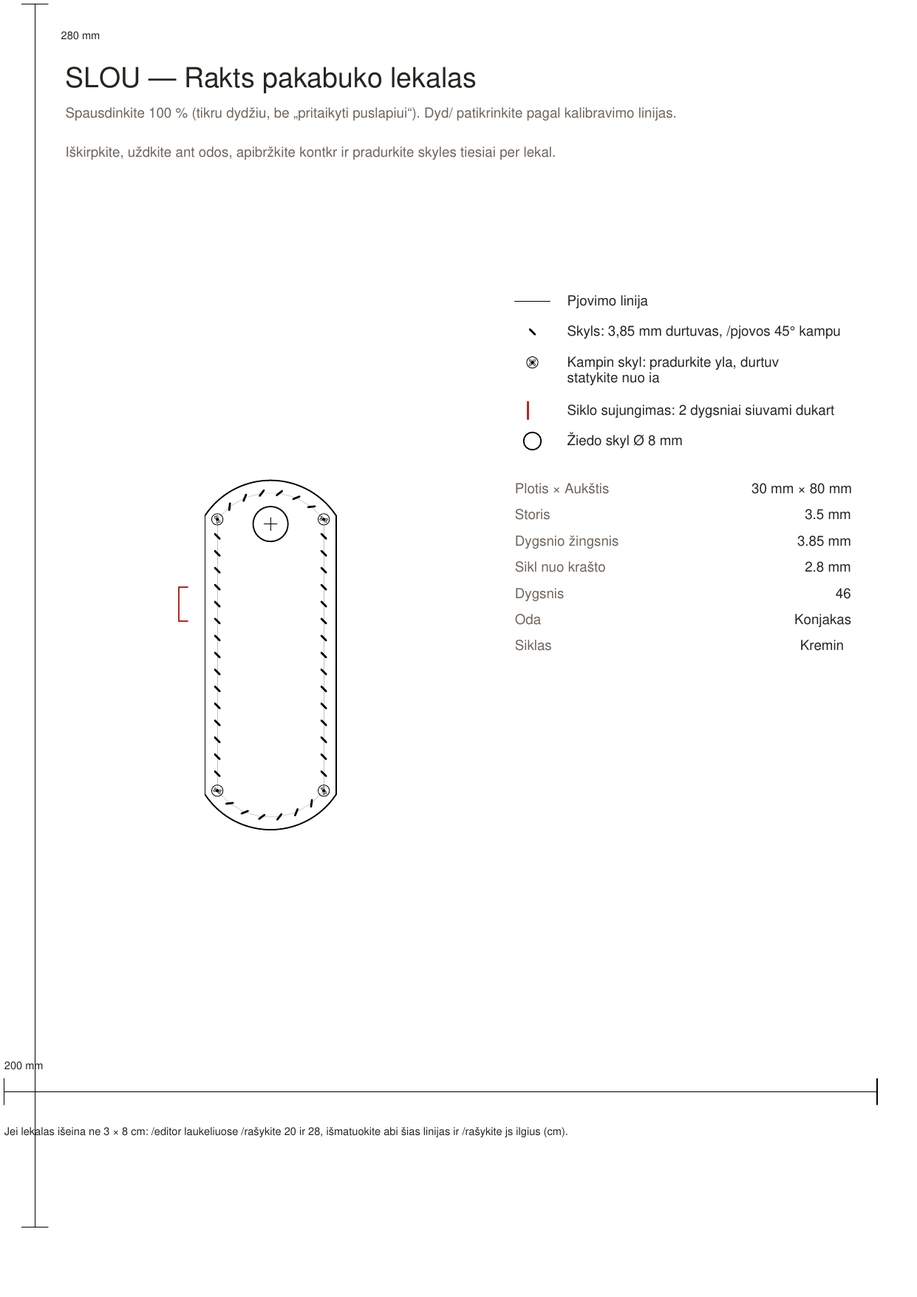
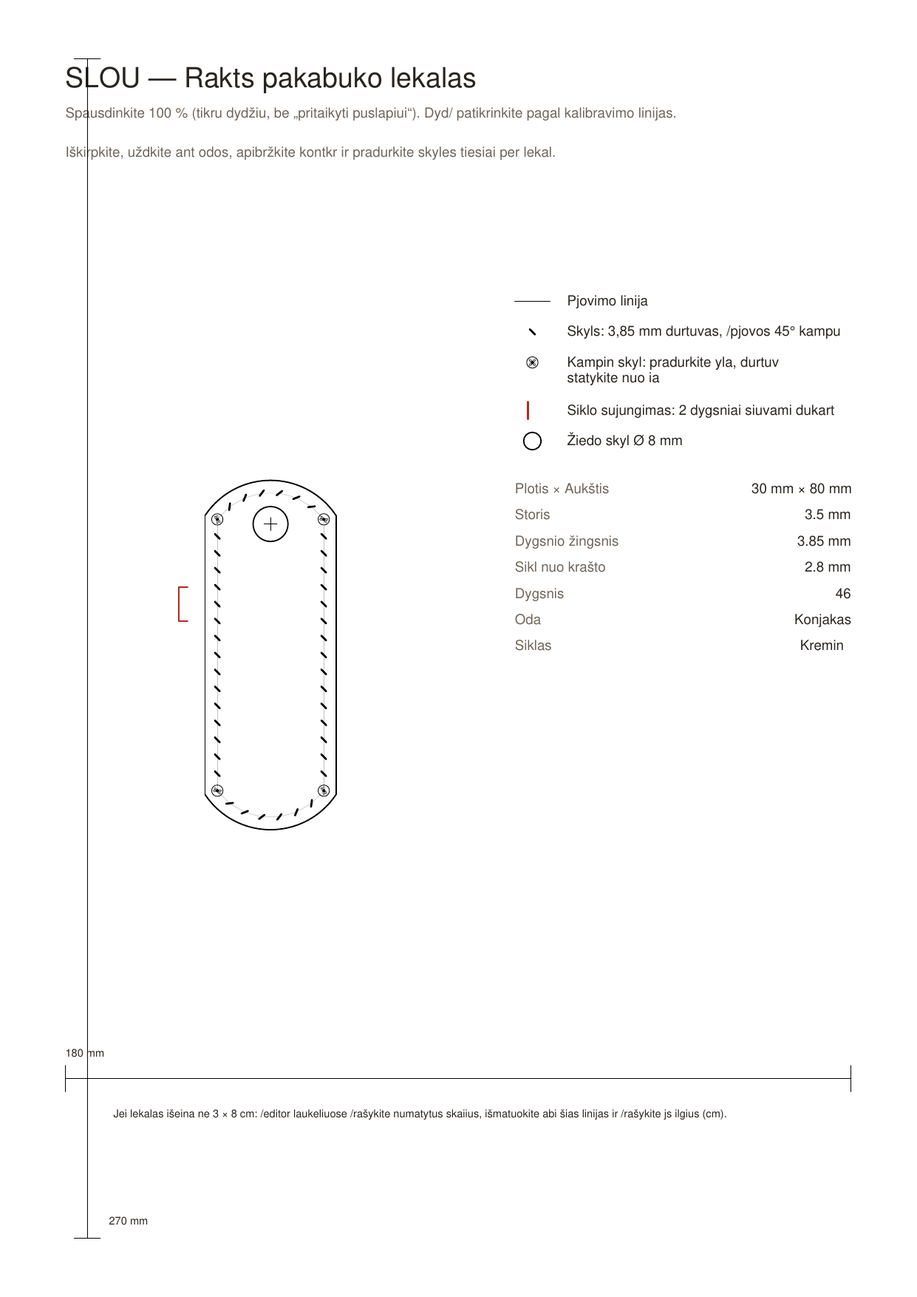
save

Changed region(s): [[0.1225, 0.8312, 0.7961, 0.8928], [0.0306, 0.862, 0.0919, 0.8928]]

diff --git a/config/content.js b/config/content.js
@@ -18,7 +18,7 @@ module.exports.content = {
     topbar: 'Rankų darbo · Augalinio rauginimo oda · Gaminama Lietuvoje',
     nav: { home: 'Pradžia', shop: 'Parduotuvė', contacts: 'Kontaktai' },
     titles: { home: 'SLOU — rankinės, raktų aksesuarai, piniginės', shop: 'Parduotuvė — SLOU', contacts: 'Kontaktai — SLOU', returns: 'Pristatymo ir grąžinimo sąlygos — SLOU', privacy: 'Privatumo politika — SLOU', cookies: 'Slapukų politika — SLOU' },
-    editor: { pageTitle: 'Raktų pakabuko kūrimas — SLOU', eyebrow: 'Kūrimo įrankis', title: 'Susikurkite raktų pakabuką', lead: 'Pasirinkite formą, odos ir siūlų spalvą, įrašykite raides — ir apžiūrėkite iš visų pusių.', hint: 'Tempkite, kad pasuktumėte, slinkite, kad priartintumėte', shape: 'Forma', shapes: { rect: 'Stačiakampis', arch: 'Arka', point: 'Smaigalys' }, leather: 'Odos spalva', thread: 'Siūlų spalva', ring: 'Žiedas', rings: { silver: 'Sidabrinis', brass: 'Žalvarinis', black: 'Juodas', gold: 'Auksinis' }, initials: 'Raidės', initialsPh: 'pvz. EM', colors: { tan: 'Natūrali', cognac: 'Konjakas', brown: 'Ruda', black: 'Juoda', burgundy: 'Bordo', olive: 'Alyvuogių', cream: 'Kreminė', white: 'Balta', red: 'Raudona' }, download: 'Atsisiųsti vaizdą', order: 'Užsisakyti tokį', measure: { toggle: 'Tinklelis ir matmenys', width: 'Plotis', height: 'Aukštis', thickness: 'Storis', hole: 'Skylė', spacing: 'Dygsnio žingsnis', inset: 'Siūlė nuo krašto' }, exitFull: 'Išeiti iš viso ekrano', lockTop: 'Fiksuoti vaizdą iš viršaus', hintPan: 'Tempkite, kad paslinktumėte, slinkite, kad priartintumėte', pattern: { btn: 'Atsisiųsti lekalą', loading: 'Ruošiama…', title: 'Raktų pakabuko lekalas', print: 'Spausdinkite 100 % (tikru dydžiu, be „pritaikyti puslapiui“). Dydį patikrinkite pagal kalibravimo linijas.', how: 'Iškirpkite, uždėkite ant odos, apibrėžkite kontūrą ir pradurkite skyles tiesiai per lekalą.', cut: 'Pjovimo linija', holes: 'Skylės: 3,85 mm durtuvas, įpjovos 45° kampu', corner: 'Kampinė skylė: pradurkite yla, durtuvą statykite nuo čia', joint: 'Siūlo sujungimas: 2 dygsniai siuvami dukart', ring: 'Žiedo skylė', initials: 'Raidės', stitches: 'Dygsnių', leather: 'Oda', thread: 'Siūlas', check: '10 mm', calibNote: 'Jei lekalas išeina ne 3 × 8 cm: /editor laukeliuose įrašykite 20 ir 28, išmatuokite abi šias linijas ir įrašykite jų ilgius (cm).' }, calib: { label: 'Kalibravimas', x: 'Horizontali linija (200 mm), cm', y: 'Vertikali linija (280 mm), cm', hint: 'Pirmam spausdinimui palikite 20 ir 28. Atspausdinkite, išmatuokite abi linijas ir įrašykite, kiek jos išeina (cm) — tada visi matmenys spausdinami tikru dydžiu.' } },
+    editor: { pageTitle: 'Raktų pakabuko kūrimas — SLOU', eyebrow: 'Kūrimo įrankis', title: 'Susikurkite raktų pakabuką', lead: 'Pasirinkite formą, odos ir siūlų spalvą, įrašykite raides — ir apžiūrėkite iš visų pusių.', hint: 'Tempkite, kad pasuktumėte, slinkite, kad priartintumėte', shape: 'Forma', shapes: { rect: 'Stačiakampis', arch: 'Arka', point: 'Smaigalys' }, leather: 'Odos spalva', thread: 'Siūlų spalva', ring: 'Žiedas', rings: { silver: 'Sidabrinis', brass: 'Žalvarinis', black: 'Juodas', gold: 'Auksinis' }, initials: 'Raidės', initialsPh: 'pvz. EM', colors: { tan: 'Natūrali', cognac: 'Konjakas', brown: 'Ruda', black: 'Juoda', burgundy: 'Bordo', olive: 'Alyvuogių', cream: 'Kreminė', white: 'Balta', red: 'Raudona' }, download: 'Atsisiųsti vaizdą', order: 'Užsisakyti tokį', measure: { toggle: 'Tinklelis ir matmenys', width: 'Plotis', height: 'Aukštis', thickness: 'Storis', hole: 'Skylė', spacing: 'Dygsnio žingsnis', inset: 'Siūlė nuo krašto' }, exitFull: 'Išeiti iš viso ekrano', lockTop: 'Fiksuoti vaizdą iš viršaus', hintPan: 'Tempkite, kad paslinktumėte, slinkite, kad priartintumėte', pattern: { btn: 'Atsisiųsti lekalą', loading: 'Ruošiama…', title: 'Raktų pakabuko lekalas', print: 'Spausdinkite 100 % (tikru dydžiu, be „pritaikyti puslapiui“). Dydį patikrinkite pagal kalibravimo linijas.', how: 'Iškirpkite, uždėkite ant odos, apibrėžkite kontūrą ir pradurkite skyles tiesiai per lekalą.', cut: 'Pjovimo linija', holes: 'Skylės: 3,85 mm durtuvas, įpjovos 45° kampu', corner: 'Kampinė skylė: pradurkite yla, durtuvą statykite nuo čia', joint: 'Siūlo sujungimas: 2 dygsniai siuvami dukart', ring: 'Žiedo skylė', initials: 'Raidės', stitches: 'Dygsnių', leather: 'Oda', thread: 'Siūlas', check: '10 mm', calibNote: 'Jei lekalas išeina ne 3 × 8 cm: /editor laukeliuose įrašykite numatytus skaičius, išmatuokite abi šias linijas ir įrašykite jų ilgius (cm).' }, calib: { label: 'Kalibravimas', x: 'Horizontali linija, cm', y: 'Vertikali linija, cm', hint: 'Pirmam spausdinimui palikite numatytus skaičius. Atspausdinkite, išmatuokite abi liniuotes ir įrašykite, kiek jos išeina (cm) — tada visi matmenys spausdinami tikru dydžiu.' } },
     hero: { eyebrow: 'Rankų darbo oda', title: 'Daiktai, gimstantys iš lėto', tag: 'rankinės · raktų aksesuarai · piniginės', lead: 'Kiekvienas SLOU gaminys – tai rankomis sukurtas daiktas iš natūralios, augaliniu būdu raugintos odos. Ne skubant, o įdėmiai.', cta: 'Apžiūrėti parduotuvę' },
     features: [ { t: 'Rankų darbo', d: 'Kiekviena detalė siūta ir formuota rankomis.' }, { t: 'Augalinio rauginimo oda', d: 'Natūrali, sensta gražiai, įgauna patiną.' }, { t: 'Be pamušalo', d: 'Minimalistinė, tvari konstrukcija.' }, { t: 'Gaminama po užsakymo', d: 'Iki 7–14 darbo dienų, Lietuvoje.' } ],
     shop: { eyebrow: 'Kolekcija', title: 'Parduotuvė', sub: 'Rankomis siūti gaminiai kasdienai.', subLong: 'Rankomis siūti gaminiai iš augalinio rauginimo odos, gaminami po užsakymo.', all: 'Visos prekės' },
@@ -40,7 +40,7 @@ module.exports.content = {
     topbar: 'Handmade · Vegetable-tanned leather · Made in Lithuania',
     nav: { home: 'Home', shop: 'Shop', contacts: 'Contact' },
     titles: { home: 'SLOU — bags, key accessories, wallets', shop: 'Shop — SLOU', contacts: 'Contact — SLOU', returns: 'Shipping & Returns — SLOU', privacy: 'Privacy Policy — SLOU', cookies: 'Cookie Policy — SLOU' },
-    editor: { pageTitle: 'Keyfob designer — SLOU', eyebrow: 'Designer', title: 'Design your keyfob', lead: 'Pick a shape, the leather and thread colour, add your initials — and look at it from every side.', hint: 'Drag to rotate, scroll to zoom', shape: 'Shape', shapes: { rect: 'Rectangle', arch: 'Arch', point: 'Point' }, leather: 'Leather colour', thread: 'Thread colour', ring: 'Ring', rings: { silver: 'Silver', brass: 'Brass', black: 'Black', gold: 'Gold' }, initials: 'Initials', initialsPh: 'e.g. EM', colors: { tan: 'Natural', cognac: 'Cognac', brown: 'Brown', black: 'Black', burgundy: 'Burgundy', olive: 'Olive', cream: 'Cream', white: 'White', red: 'Red' }, download: 'Download image', order: 'Order this one', measure: { toggle: 'Grid & measurements', width: 'Width', height: 'Height', thickness: 'Thickness', hole: 'Hole', spacing: 'Stitch spacing', inset: 'Stitching from edge' }, exitFull: 'Exit fullscreen', lockTop: 'Lock top view', hintPan: 'Drag to move, scroll to zoom', pattern: { btn: 'Download pattern', loading: 'Preparing…', title: 'Keyfob pattern', print: 'Print at 100% (actual size, not "fit to page"). Check the size against the calibration lines.', how: 'Cut it out, lay it on the leather, trace the outline and punch the holes straight through the paper.', cut: 'Cut line', holes: 'Holes: 3.85 mm pricking iron, slits at 45°', corner: 'Corner hole: pin it with an awl, start the iron from here', joint: 'Thread joint: 2 stitches sewn twice', ring: 'Ring hole', initials: 'Initials', stitches: 'Stitches', leather: 'Leather', thread: 'Thread', check: '10 mm', calibNote: 'If the pattern does not come out 3 × 8 cm: set the fields on /editor back to 20 and 28, measure both lines and enter their lengths (cm).' }, calib: { label: 'Calibration', x: 'Horizontal line (200 mm), cm', y: 'Vertical line (280 mm), cm', hint: 'Leave 20 and 28 for the first print. Print, measure both lines and enter what they come to (cm) — then every measurement prints true size.' } },
+    editor: { pageTitle: 'Keyfob designer — SLOU', eyebrow: 'Designer', title: 'Design your keyfob', lead: 'Pick a shape, the leather and thread colour, add your initials — and look at it from every side.', hint: 'Drag to rotate, scroll to zoom', shape: 'Shape', shapes: { rect: 'Rectangle', arch: 'Arch', point: 'Point' }, leather: 'Leather colour', thread: 'Thread colour', ring: 'Ring', rings: { silver: 'Silver', brass: 'Brass', black: 'Black', gold: 'Gold' }, initials: 'Initials', initialsPh: 'e.g. EM', colors: { tan: 'Natural', cognac: 'Cognac', brown: 'Brown', black: 'Black', burgundy: 'Burgundy', olive: 'Olive', cream: 'Cream', white: 'White', red: 'Red' }, download: 'Download image', order: 'Order this one', measure: { toggle: 'Grid & measurements', width: 'Width', height: 'Height', thickness: 'Thickness', hole: 'Hole', spacing: 'Stitch spacing', inset: 'Stitching from edge' }, exitFull: 'Exit fullscreen', lockTop: 'Lock top view', hintPan: 'Drag to move, scroll to zoom', pattern: { btn: 'Download pattern', loading: 'Preparing…', title: 'Keyfob pattern', print: 'Print at 100% (actual size, not "fit to page"). Check the size against the calibration lines.', how: 'Cut it out, lay it on the leather, trace the outline and punch the holes straight through the paper.', cut: 'Cut line', holes: 'Holes: 3.85 mm pricking iron, slits at 45°', corner: 'Corner hole: pin it with an awl, start the iron from here', joint: 'Thread joint: 2 stitches sewn twice', ring: 'Ring hole', initials: 'Initials', stitches: 'Stitches', leather: 'Leather', thread: 'Thread', check: '10 mm', calibNote: 'If the pattern does not come out 3 × 8 cm: set the fields on /editor back to the default numbers, measure both lines and enter their lengths (cm).' }, calib: { label: 'Calibration', x: 'Horizontal line, cm', y: 'Vertical line, cm', hint: 'Leave the default numbers for the first print. Print, measure both rulers and enter what they come to (cm) — then every measurement prints true size.' } },
     hero: { eyebrow: 'Handmade leather', title: 'Things born slowly', tag: 'bags · key accessories · wallets', lead: 'Every SLOU piece is made by hand from natural, vegetable-tanned leather. Not in a hurry, but with care.', cta: 'Explore the shop' },
     features: [ { t: 'Handmade', d: 'Every detail is stitched and shaped by hand.' }, { t: 'Vegetable-tanned leather', d: 'Natural, ages beautifully, gains a patina.' }, { t: 'Unlined', d: 'Minimalist, durable construction.' }, { t: 'Made to order', d: 'Up to 7–14 working days, in Lithuania.' } ],
     shop: { eyebrow: 'Collection', title: 'Shop', sub: 'Hand-stitched pieces for everyday.', subLong: 'Hand-stitched pieces in vegetable-tanned leather, made to order.', all: 'All products' },
@@ -62,7 +62,7 @@ module.exports.content = {
     topbar: 'Feito à mão · Couro de curtimento vegetal · Fabricado na Lituânia',
     nav: { home: 'Início', shop: 'Loja', contacts: 'Contactos' },
     titles: { home: 'SLOU — bolsas, acessórios de chaves, carteiras', shop: 'Loja — SLOU', contacts: 'Contactos — SLOU', returns: 'Envio e devoluções — SLOU', privacy: 'Política de Privacidade — SLOU', cookies: 'Política de Cookies — SLOU' },
-    editor: { pageTitle: 'Criar porta-chaves — SLOU', eyebrow: 'Editor', title: 'Crie o seu porta-chaves', lead: 'Escolha a forma, a cor do couro e da linha, acrescente as suas iniciais — e veja-o de todos os lados.', hint: 'Arraste para rodar, role para aproximar', shape: 'Forma', shapes: { rect: 'Retângulo', arch: 'Arco', point: 'Bico' }, leather: 'Cor do couro', thread: 'Cor da linha', ring: 'Argola', rings: { silver: 'Prateada', brass: 'Latão', black: 'Preta', gold: 'Dourada' }, initials: 'Iniciais', initialsPh: 'ex. EM', colors: { tan: 'Natural', cognac: 'Conhaque', brown: 'Castanho', black: 'Preto', burgundy: 'Bordô', olive: 'Azeitona', cream: 'Creme', white: 'Branco', red: 'Vermelho' }, download: 'Descarregar imagem', order: 'Encomendar este', measure: { toggle: 'Grelha e medidas', width: 'Largura', height: 'Altura', thickness: 'Espessura', hole: 'Furo', spacing: 'Espaçamento dos pontos', inset: 'Costura a partir da borda' }, exitFull: 'Sair do ecrã inteiro', lockTop: 'Fixar vista de cima', hintPan: 'Arraste para mover, role para aproximar', pattern: { btn: 'Descarregar molde', loading: 'A preparar…', title: 'Molde do porta-chaves', print: 'Imprima a 100% (tamanho real, sem "ajustar à página"). Verifique o tamanho pelas linhas de calibração.', how: 'Recorte, coloque sobre o couro, contorne e fure diretamente através do papel.', cut: 'Linha de corte', holes: 'Furos: furador de 3,85 mm, fendas a 45°', corner: 'Furo de canto: fure com a sovela, comece o furador daqui', joint: 'Remate da linha: 2 pontos cosidos duas vezes', ring: 'Furo da argola', initials: 'Iniciais', stitches: 'Pontos', leather: 'Couro', thread: 'Linha', check: '10 mm', calibNote: 'Se o molde não sair com 3 × 8 cm: volte a pôr 20 e 28 nos campos em /editor, meça as duas linhas e indique os comprimentos (cm).' }, calib: { label: 'Calibração', x: 'Linha horizontal (200 mm), cm', y: 'Linha vertical (280 mm), cm', hint: 'Deixe 20 e 28 na primeira impressão. Imprima, meça as duas linhas e indique quanto medem (cm) — depois todas as medidas saem em tamanho real.' } },
+    editor: { pageTitle: 'Criar porta-chaves — SLOU', eyebrow: 'Editor', title: 'Crie o seu porta-chaves', lead: 'Escolha a forma, a cor do couro e da linha, acrescente as suas iniciais — e veja-o de todos os lados.', hint: 'Arraste para rodar, role para aproximar', shape: 'Forma', shapes: { rect: 'Retângulo', arch: 'Arco', point: 'Bico' }, leather: 'Cor do couro', thread: 'Cor da linha', ring: 'Argola', rings: { silver: 'Prateada', brass: 'Latão', black: 'Preta', gold: 'Dourada' }, initials: 'Iniciais', initialsPh: 'ex. EM', colors: { tan: 'Natural', cognac: 'Conhaque', brown: 'Castanho', black: 'Preto', burgundy: 'Bordô', olive: 'Azeitona', cream: 'Creme', white: 'Branco', red: 'Vermelho' }, download: 'Descarregar imagem', order: 'Encomendar este', measure: { toggle: 'Grelha e medidas', width: 'Largura', height: 'Altura', thickness: 'Espessura', hole: 'Furo', spacing: 'Espaçamento dos pontos', inset: 'Costura a partir da borda' }, exitFull: 'Sair do ecrã inteiro', lockTop: 'Fixar vista de cima', hintPan: 'Arraste para mover, role para aproximar', pattern: { btn: 'Descarregar molde', loading: 'A preparar…', title: 'Molde do porta-chaves', print: 'Imprima a 100% (tamanho real, sem "ajustar à página"). Verifique o tamanho pelas linhas de calibração.', how: 'Recorte, coloque sobre o couro, contorne e fure diretamente através do papel.', cut: 'Linha de corte', holes: 'Furos: furador de 3,85 mm, fendas a 45°', corner: 'Furo de canto: fure com a sovela, comece o furador daqui', joint: 'Remate da linha: 2 pontos cosidos duas vezes', ring: 'Furo da argola', initials: 'Iniciais', stitches: 'Pontos', leather: 'Couro', thread: 'Linha', check: '10 mm', calibNote: 'Se o molde não sair com 3 × 8 cm: volte a pôr os números predefinidos nos campos em /editor, meça as duas linhas e indique os comprimentos (cm).' }, calib: { label: 'Calibração', x: 'Linha horizontal, cm', y: 'Linha vertical, cm', hint: 'Deixe os números predefinidos na primeira impressão. Imprima, meça as duas linhas e indique quanto medem (cm) — depois todas as medidas saem em tamanho real.' } },
     hero: { eyebrow: 'Couro feito à mão', title: 'Objetos que nascem devagar', tag: 'bolsas · acessórios de chaves · carteiras', lead: 'Cada peça SLOU é um objeto feito à mão em couro natural de curtimento vegetal. Sem pressa, mas com cuidado.', cta: 'Ver a loja' },
     features: [ { t: 'Feito à mão', d: 'Cada detalhe é costurado e moldado à mão.' }, { t: 'Couro de curtimento vegetal', d: 'Natural, envelhece bem, ganha pátina.' }, { t: 'Sem forro', d: 'Construção minimalista e durável.' }, { t: 'Feito por encomenda', d: 'Até 7–14 dias úteis, na Lituânia.' } ],
     shop: { eyebrow: 'Coleção', title: 'Loja', sub: 'Peças costuradas à mão para o dia a dia.', subLong: 'Peças costuradas à mão em couro de curtimento vegetal, feitas por encomenda.', all: 'Todos os produtos' },
@@ -84,7 +84,7 @@ module.exports.content = {
     topbar: 'Fait main · Cuir à tannage végétal · Fabriqué en Lituanie',
     nav: { home: 'Accueil', shop: 'Boutique', contacts: 'Contact' },
     titles: { home: 'SLOU — sacs, accessoires de clés, portefeuilles', shop: 'Boutique — SLOU', contacts: 'Contact — SLOU', returns: 'Livraison et retours — SLOU', privacy: 'Politique de confidentialité — SLOU', cookies: 'Politique de cookies — SLOU' },
-    editor: { pageTitle: 'Créer un porte-clés — SLOU', eyebrow: 'Atelier', title: 'Créez votre porte-clés', lead: 'Choisissez la forme, la couleur du cuir et du fil, ajoutez vos initiales — et regardez-le sous tous les angles.', hint: 'Glissez pour tourner, faites défiler pour zoomer', shape: 'Forme', shapes: { rect: 'Rectangle', arch: 'Arche', point: 'Pointe' }, leather: 'Couleur du cuir', thread: 'Couleur du fil', ring: 'Anneau', rings: { silver: 'Argent', brass: 'Laiton', black: 'Noir', gold: 'Or' }, initials: 'Initiales', initialsPh: 'ex. EM', colors: { tan: 'Naturel', cognac: 'Cognac', brown: 'Marron', black: 'Noir', burgundy: 'Bordeaux', olive: 'Olive', cream: 'Crème', white: 'Blanc', red: 'Rouge' }, download: 'Télécharger l’image', order: 'Commander celui-ci', measure: { toggle: 'Grille et mesures', width: 'Largeur', height: 'Hauteur', thickness: 'Épaisseur', hole: 'Trou', spacing: 'Pas de couture', inset: 'Couture depuis le bord' }, exitFull: 'Quitter le plein écran', lockTop: 'Verrouiller la vue de dessus', hintPan: 'Glissez pour déplacer, faites défiler pour zoomer', pattern: { btn: 'Télécharger le patron', loading: 'Préparation…', title: 'Patron du porte-clés', print: 'Imprimez à 100 % (taille réelle, sans « ajuster à la page »). Vérifiez la taille avec les lignes de calibrage.', how: 'Découpez-le, posez-le sur le cuir, tracez le contour et percez les trous directement à travers le papier.', cut: 'Ligne de coupe', holes: 'Trous : griffe de 3,85 mm, fentes à 45°', corner: 'Trou d’angle : percez à l’alène, commencez la griffe ici', joint: 'Raccord du fil : 2 points cousus deux fois', ring: 'Trou de l’anneau', initials: 'Initiales', stitches: 'Points', leather: 'Cuir', thread: 'Fil', check: '10 mm', calibNote: 'Si le patron ne mesure pas 3 × 8 cm : remettez 20 et 28 dans les champs sur /editor, mesurez les deux lignes et indiquez leurs longueurs (cm).' }, calib: { label: 'Calibrage', x: 'Ligne horizontale (200 mm), cm', y: 'Ligne verticale (280 mm), cm', hint: 'Laissez 20 et 28 pour la première impression. Imprimez, mesurez les deux lignes et indiquez leurs longueurs (cm) — ensuite tout s’imprime à taille réelle.' } },
+    editor: { pageTitle: 'Créer un porte-clés — SLOU', eyebrow: 'Atelier', title: 'Créez votre porte-clés', lead: 'Choisissez la forme, la couleur du cuir et du fil, ajoutez vos initiales — et regardez-le sous tous les angles.', hint: 'Glissez pour tourner, faites défiler pour zoomer', shape: 'Forme', shapes: { rect: 'Rectangle', arch: 'Arche', point: 'Pointe' }, leather: 'Couleur du cuir', thread: 'Couleur du fil', ring: 'Anneau', rings: { silver: 'Argent', brass: 'Laiton', black: 'Noir', gold: 'Or' }, initials: 'Initiales', initialsPh: 'ex. EM', colors: { tan: 'Naturel', cognac: 'Cognac', brown: 'Marron', black: 'Noir', burgundy: 'Bordeaux', olive: 'Olive', cream: 'Crème', white: 'Blanc', red: 'Rouge' }, download: 'Télécharger l’image', order: 'Commander celui-ci', measure: { toggle: 'Grille et mesures', width: 'Largeur', height: 'Hauteur', thickness: 'Épaisseur', hole: 'Trou', spacing: 'Pas de couture', inset: 'Couture depuis le bord' }, exitFull: 'Quitter le plein écran', lockTop: 'Verrouiller la vue de dessus', hintPan: 'Glissez pour déplacer, faites défiler pour zoomer', pattern: { btn: 'Télécharger le patron', loading: 'Préparation…', title: 'Patron du porte-clés', print: 'Imprimez à 100 % (taille réelle, sans « ajuster à la page »). Vérifiez la taille avec les lignes de calibrage.', how: 'Découpez-le, posez-le sur le cuir, tracez le contour et percez les trous directement à travers le papier.', cut: 'Ligne de coupe', holes: 'Trous : griffe de 3,85 mm, fentes à 45°', corner: 'Trou d’angle : percez à l’alène, commencez la griffe ici', joint: 'Raccord du fil : 2 points cousus deux fois', ring: 'Trou de l’anneau', initials: 'Initiales', stitches: 'Points', leather: 'Cuir', thread: 'Fil', check: '10 mm', calibNote: 'Si le patron ne mesure pas 3 × 8 cm : remettez les valeurs par défaut dans les champs sur /editor, mesurez les deux lignes et indiquez leurs longueurs (cm).' }, calib: { label: 'Calibrage', x: 'Ligne horizontale, cm', y: 'Ligne verticale, cm', hint: 'Laissez les valeurs par défaut pour la première impression. Imprimez, mesurez les deux lignes et indiquez leurs longueurs (cm) — ensuite tout s’imprime à taille réelle.' } },
     hero: { eyebrow: 'Cuir fait main', title: 'Des objets qui naissent lentement', tag: 'sacs · accessoires de clés · portefeuilles', lead: 'Chaque pièce SLOU est un objet fait main en cuir naturel à tannage végétal. Sans hâte, mais avec soin.', cta: 'Découvrir la boutique' },
     features: [ { t: 'Fait main', d: 'Chaque détail est cousu et façonné à la main.' }, { t: 'Cuir à tannage végétal', d: 'Naturel, vieillit bien, se patine.' }, { t: 'Sans doublure', d: 'Construction minimaliste et durable.' }, { t: 'Fabriqué sur commande', d: 'Jusqu’à 7–14 jours ouvrés, en Lituanie.' } ],
     shop: { eyebrow: 'Collection', title: 'Boutique', sub: 'Des pièces cousues à la main pour tous les jours.', subLong: 'Des pièces cousues à la main en cuir à tannage végétal, fabriquées sur commande.', all: 'Tous les produits' },
@@ -106,7 +106,7 @@ module.exports.content = {
     topbar: 'Handarbeit · Pflanzlich gegerbtes Leder · Hergestellt in Litauen',
     nav: { home: 'Start', shop: 'Shop', contacts: 'Kontakt' },
     titles: { home: 'SLOU — Taschen, Schlüsselaccessoires, Portemonnaies', shop: 'Shop — SLOU', contacts: 'Kontakt — SLOU', returns: 'Versand & Rückgabe — SLOU', privacy: 'Datenschutzerklärung — SLOU', cookies: 'Cookie-Richtlinie — SLOU' },
-    editor: { pageTitle: 'Schlüsselanhänger gestalten — SLOU', eyebrow: 'Designer', title: 'Gestalten Sie Ihren Schlüsselanhänger', lead: 'Wählen Sie Form, Leder- und Garnfarbe, fügen Sie Ihre Initialen hinzu — und betrachten Sie ihn von allen Seiten.', hint: 'Ziehen zum Drehen, scrollen zum Zoomen', shape: 'Form', shapes: { rect: 'Rechteck', arch: 'Bogen', point: 'Spitze' }, leather: 'Lederfarbe', thread: 'Garnfarbe', ring: 'Ring', rings: { silver: 'Silber', brass: 'Messing', black: 'Schwarz', gold: 'Gold' }, initials: 'Initialen', initialsPh: 'z. B. EM', colors: { tan: 'Natur', cognac: 'Cognac', brown: 'Braun', black: 'Schwarz', burgundy: 'Bordeaux', olive: 'Oliv', cream: 'Creme', white: 'Weiß', red: 'Rot' }, download: 'Bild herunterladen', order: 'Diesen bestellen', measure: { toggle: 'Raster und Maße', width: 'Breite', height: 'Höhe', thickness: 'Stärke', hole: 'Loch', spacing: 'Stichabstand', inset: 'Naht vom Rand' }, exitFull: 'Vollbild beenden', lockTop: 'Draufsicht fixieren', hintPan: 'Ziehen zum Verschieben, scrollen zum Zoomen', pattern: { btn: 'Schnittmuster herunterladen', loading: 'Wird vorbereitet…', title: 'Schnittmuster Schlüsselanhänger', print: 'In 100 % drucken (Originalgröße, nicht „an Seite anpassen“). Die Größe an den Kalibrierlinien prüfen.', how: 'Ausschneiden, auf das Leder legen, Umriss nachzeichnen und die Löcher direkt durch das Papier stechen.', cut: 'Schnittlinie', holes: 'Löcher: 3,85-mm-Pricking-Eisen, Schlitze im 45°-Winkel', corner: 'Eckloch: mit der Ahle stechen, von hier mit dem Eisen beginnen', joint: 'Fadenansatz: 2 Stiche doppelt genäht', ring: 'Ringloch', initials: 'Initialen', stitches: 'Stiche', leather: 'Leder', thread: 'Garn', check: '10 mm', calibNote: 'Wenn das Schnittmuster nicht 3 × 8 cm ergibt: setzen Sie die Felder auf /editor auf 20 und 28 zurück, messen Sie beide Linien und geben Sie ihre Längen ein (cm).' }, calib: { label: 'Kalibrierung', x: 'Waagerechte Linie (200 mm), cm', y: 'Senkrechte Linie (280 mm), cm', hint: 'Beim ersten Druck 20 und 28 lassen. Drucken, beide Linien messen und die Längen eingeben (cm) — danach wird alles in Originalgröße gedruckt.' } },
+    editor: { pageTitle: 'Schlüsselanhänger gestalten — SLOU', eyebrow: 'Designer', title: 'Gestalten Sie Ihren Schlüsselanhänger', lead: 'Wählen Sie Form, Leder- und Garnfarbe, fügen Sie Ihre Initialen hinzu — und betrachten Sie ihn von allen Seiten.', hint: 'Ziehen zum Drehen, scrollen zum Zoomen', shape: 'Form', shapes: { rect: 'Rechteck', arch: 'Bogen', point: 'Spitze' }, leather: 'Lederfarbe', thread: 'Garnfarbe', ring: 'Ring', rings: { silver: 'Silber', brass: 'Messing', black: 'Schwarz', gold: 'Gold' }, initials: 'Initialen', initialsPh: 'z. B. EM', colors: { tan: 'Natur', cognac: 'Cognac', brown: 'Braun', black: 'Schwarz', burgundy: 'Bordeaux', olive: 'Oliv', cream: 'Creme', white: 'Weiß', red: 'Rot' }, download: 'Bild herunterladen', order: 'Diesen bestellen', measure: { toggle: 'Raster und Maße', width: 'Breite', height: 'Höhe', thickness: 'Stärke', hole: 'Loch', spacing: 'Stichabstand', inset: 'Naht vom Rand' }, exitFull: 'Vollbild beenden', lockTop: 'Draufsicht fixieren', hintPan: 'Ziehen zum Verschieben, scrollen zum Zoomen', pattern: { btn: 'Schnittmuster herunterladen', loading: 'Wird vorbereitet…', title: 'Schnittmuster Schlüsselanhänger', print: 'In 100 % drucken (Originalgröße, nicht „an Seite anpassen“). Die Größe an den Kalibrierlinien prüfen.', how: 'Ausschneiden, auf das Leder legen, Umriss nachzeichnen und die Löcher direkt durch das Papier stechen.', cut: 'Schnittlinie', holes: 'Löcher: 3,85-mm-Pricking-Eisen, Schlitze im 45°-Winkel', corner: 'Eckloch: mit der Ahle stechen, von hier mit dem Eisen beginnen', joint: 'Fadenansatz: 2 Stiche doppelt genäht', ring: 'Ringloch', initials: 'Initialen', stitches: 'Stiche', leather: 'Leder', thread: 'Garn', check: '10 mm', calibNote: 'Wenn das Schnittmuster nicht 3 × 8 cm ergibt: setzen Sie die Felder auf /editor auf die Vorgabewerte zurück, messen Sie beide Linien und geben Sie ihre Längen ein (cm).' }, calib: { label: 'Kalibrierung', x: 'Waagerechte Linie, cm', y: 'Senkrechte Linie, cm', hint: 'Beim ersten Druck die Vorgabewerte lassen. Drucken, beide Linien messen und die Längen eingeben (cm) — danach wird alles in Originalgröße gedruckt.' } },
     hero: { eyebrow: 'Handgemachtes Leder', title: 'Dinge, die langsam entstehen', tag: 'Taschen · Schlüsselaccessoires · Portemonnaies', lead: 'Jedes SLOU-Stück ist ein von Hand gefertigtes Objekt aus natürlichem, pflanzlich gegerbtem Leder. Nicht in Eile, sondern mit Sorgfalt.', cta: 'Zum Shop' },
     features: [ { t: 'Handarbeit', d: 'Jedes Detail wird von Hand genäht und geformt.' }, { t: 'Pflanzlich gegerbtes Leder', d: 'Natürlich, altert schön, bekommt Patina.' }, { t: 'Ungefüttert', d: 'Minimalistische, langlebige Konstruktion.' }, { t: 'Auf Bestellung gefertigt', d: 'Bis zu 7–14 Werktage, in Litauen.' } ],
     shop: { eyebrow: 'Kollektion', title: 'Shop', sub: 'Handgenähte Stücke für jeden Tag.', subLong: 'Handgenähte Stücke aus pflanzlich gegerbtem Leder, auf Bestellung gefertigt.', all: 'Alle Produkte' },
@@ -128,7 +128,7 @@ module.exports.content = {
     topbar: 'Hecho a mano · Cuero de curtido vegetal · Fabricado en Lituania',
     nav: { home: 'Inicio', shop: 'Tienda', contacts: 'Contacto' },
     titles: { home: 'SLOU — bolsos, accesorios de llaves, carteras', shop: 'Tienda — SLOU', contacts: 'Contacto — SLOU', returns: 'Envío y devoluciones — SLOU', privacy: 'Política de Privacidad — SLOU', cookies: 'Política de Cookies — SLOU' },
-    editor: { pageTitle: 'Diseña tu llavero — SLOU', eyebrow: 'Editor', title: 'Diseña tu llavero', lead: 'Elige la forma, el color del cuero y del hilo, añade tus iniciales — y míralo desde todos los lados.', hint: 'Arrastra para girar, desplaza para acercar', shape: 'Forma', shapes: { rect: 'Rectángulo', arch: 'Arco', point: 'Punta' }, leather: 'Color del cuero', thread: 'Color del hilo', ring: 'Anilla', rings: { silver: 'Plateada', brass: 'Latón', black: 'Negra', gold: 'Dorada' }, initials: 'Iniciales', initialsPh: 'p. ej. EM', colors: { tan: 'Natural', cognac: 'Coñac', brown: 'Marrón', black: 'Negro', burgundy: 'Burdeos', olive: 'Oliva', cream: 'Crema', white: 'Blanco', red: 'Rojo' }, download: 'Descargar imagen', order: 'Encargar este', measure: { toggle: 'Cuadrícula y medidas', width: 'Ancho', height: 'Alto', thickness: 'Grosor', hole: 'Agujero', spacing: 'Separación de puntadas', inset: 'Costura desde el borde' }, exitFull: 'Salir de pantalla completa', lockTop: 'Fijar vista superior', hintPan: 'Arrastra para mover, desplaza para acercar', pattern: { btn: 'Descargar patrón', loading: 'Preparando…', title: 'Patrón del llavero', print: 'Imprime al 100 % (tamaño real, sin "ajustar a la página"). Comprueba el tamaño con las líneas de calibración.', how: 'Recórtalo, colócalo sobre el cuero, marca el contorno y perfora los agujeros directamente a través del papel.', cut: 'Línea de corte', holes: 'Agujeros: pricadora de 3,85 mm, ranuras a 45°', corner: 'Agujero de esquina: perfóralo con la lezna, empieza aquí con la pricadora', joint: 'Empalme del hilo: 2 puntadas cosidas dos veces', ring: 'Agujero de la anilla', initials: 'Iniciales', stitches: 'Puntadas', leather: 'Cuero', thread: 'Hilo', check: '10 mm', calibNote: 'Si el patrón no sale de 3 × 8 cm: vuelva a poner 20 y 28 en los campos de /editor, mida las dos líneas e indique sus longitudes (cm).' }, calib: { label: 'Calibración', x: 'Línea horizontal (200 mm), cm', y: 'Línea vertical (280 mm), cm', hint: 'Deje 20 y 28 en la primera impresión. Imprima, mida las dos líneas e indique lo que miden (cm): después todo se imprime a tamaño real.' } },
+    editor: { pageTitle: 'Diseña tu llavero — SLOU', eyebrow: 'Editor', title: 'Diseña tu llavero', lead: 'Elige la forma, el color del cuero y del hilo, añade tus iniciales — y míralo desde todos los lados.', hint: 'Arrastra para girar, desplaza para acercar', shape: 'Forma', shapes: { rect: 'Rectángulo', arch: 'Arco', point: 'Punta' }, leather: 'Color del cuero', thread: 'Color del hilo', ring: 'Anilla', rings: { silver: 'Plateada', brass: 'Latón', black: 'Negra', gold: 'Dorada' }, initials: 'Iniciales', initialsPh: 'p. ej. EM', colors: { tan: 'Natural', cognac: 'Coñac', brown: 'Marrón', black: 'Negro', burgundy: 'Burdeos', olive: 'Oliva', cream: 'Crema', white: 'Blanco', red: 'Rojo' }, download: 'Descargar imagen', order: 'Encargar este', measure: { toggle: 'Cuadrícula y medidas', width: 'Ancho', height: 'Alto', thickness: 'Grosor', hole: 'Agujero', spacing: 'Separación de puntadas', inset: 'Costura desde el borde' }, exitFull: 'Salir de pantalla completa', lockTop: 'Fijar vista superior', hintPan: 'Arrastra para mover, desplaza para acercar', pattern: { btn: 'Descargar patrón', loading: 'Preparando…', title: 'Patrón del llavero', print: 'Imprime al 100 % (tamaño real, sin "ajustar a la página"). Comprueba el tamaño con las líneas de calibración.', how: 'Recórtalo, colócalo sobre el cuero, marca el contorno y perfora los agujeros directamente a través del papel.', cut: 'Línea de corte', holes: 'Agujeros: pricadora de 3,85 mm, ranuras a 45°', corner: 'Agujero de esquina: perfóralo con la lezna, empieza aquí con la pricadora', joint: 'Empalme del hilo: 2 puntadas cosidas dos veces', ring: 'Agujero de la anilla', initials: 'Iniciales', stitches: 'Puntadas', leather: 'Cuero', thread: 'Hilo', check: '10 mm', calibNote: 'Si el patrón no sale de 3 × 8 cm: vuelva a poner los valores predeterminados en los campos de /editor, mida las dos líneas e indique sus longitudes (cm).' }, calib: { label: 'Calibración', x: 'Línea horizontal, cm', y: 'Línea vertical, cm', hint: 'Deje los valores predeterminados en la primera impresión. Imprima, mida las dos líneas e indique lo que miden (cm): después todo se imprime a tamaño real.' } },
     hero: { eyebrow: 'Cuero hecho a mano', title: 'Objetos que nacen despacio', tag: 'bolsos · accesorios de llaves · carteras', lead: 'Cada pieza SLOU es un objeto hecho a mano en cuero natural de curtido vegetal. Sin prisa, pero con cuidado.', cta: 'Ver la tienda' },
     features: [ { t: 'Hecho a mano', d: 'Cada detalle se cose y se moldea a mano.' }, { t: 'Cuero de curtido vegetal', d: 'Natural, envejece bien, gana pátina.' }, { t: 'Sin forro', d: 'Construcción minimalista y duradera.' }, { t: 'Hecho por encargo', d: 'Hasta 7–14 días laborables, en Lituania.' } ],
     shop: { eyebrow: 'Colección', title: 'Tienda', sub: 'Piezas cosidas a mano para el día a día.', subLong: 'Piezas cosidas a mano en cuero de curtido vegetal, hechas por encargo.', all: 'Todos los productos' },
@@ -150,7 +150,7 @@ module.exports.content = {
     topbar: 'Fatto a mano · Cuoio a concia vegetale · Prodotto in Lituania',
     nav: { home: 'Home', shop: 'Negozio', contacts: 'Contatti' },
     titles: { home: 'SLOU — borse, accessori per chiavi, portafogli', shop: 'Negozio — SLOU', contacts: 'Contatti — SLOU', returns: 'Spedizione e resi — SLOU', privacy: 'Informativa sulla privacy — SLOU', cookies: 'Informativa sui cookie — SLOU' },
-    editor: { pageTitle: 'Crea il tuo portachiavi — SLOU', eyebrow: 'Editor', title: 'Crea il tuo portachiavi', lead: 'Scegli la forma, il colore della pelle e del filo, aggiungi le tue iniziali — e guardalo da ogni lato.', hint: 'Trascina per ruotare, scorri per ingrandire', shape: 'Forma', shapes: { rect: 'Rettangolo', arch: 'Arco', point: 'Punta' }, leather: 'Colore della pelle', thread: 'Colore del filo', ring: 'Anello', rings: { silver: 'Argento', brass: 'Ottone', black: 'Nero', gold: 'Oro' }, initials: 'Iniziali', initialsPh: 'es. EM', colors: { tan: 'Naturale', cognac: 'Cognac', brown: 'Marrone', black: 'Nero', burgundy: 'Bordeaux', olive: 'Oliva', cream: 'Crema', white: 'Bianco', red: 'Rosso' }, download: 'Scarica immagine', order: 'Ordina questo', measure: { toggle: 'Griglia e misure', width: 'Larghezza', height: 'Altezza', thickness: 'Spessore', hole: 'Foro', spacing: 'Passo del punto', inset: 'Cucitura dal bordo' }, exitFull: 'Esci da schermo intero', lockTop: 'Blocca vista dall’alto', hintPan: 'Trascina per spostare, scorri per ingrandire', pattern: { btn: 'Scarica cartamodello', loading: 'Preparazione…', title: 'Cartamodello del portachiavi', print: 'Stampa al 100% (dimensioni reali, senza "adatta alla pagina"). Controlla la misura con le linee di calibrazione.', how: 'Ritaglialo, appoggialo sulla pelle, traccia il contorno e fora direttamente attraverso la carta.', cut: 'Linea di taglio', holes: 'Fori: pricofora da 3,85 mm, tagli a 45°', corner: 'Foro d’angolo: foralo con la lesina, inizia da qui con la pricofora', joint: 'Giunzione del filo: 2 punti cuciti due volte', ring: 'Foro dell’anello', initials: 'Iniziali', stitches: 'Punti', leather: 'Pelle', thread: 'Filo', check: '10 mm', calibNote: 'Se il modello non viene 3 × 8 cm: rimetti 20 e 28 nei campi su /editor, misura le due linee e indica le loro lunghezze (cm).' }, calib: { label: 'Calibrazione', x: 'Linea orizzontale (200 mm), cm', y: 'Linea verticale (280 mm), cm', hint: 'Alla prima stampa lascia 20 e 28. Stampa, misura le due linee e indica quanto misurano (cm): da quel momento tutto si stampa a grandezza reale.' } },
+    editor: { pageTitle: 'Crea il tuo portachiavi — SLOU', eyebrow: 'Editor', title: 'Crea il tuo portachiavi', lead: 'Scegli la forma, il colore della pelle e del filo, aggiungi le tue iniziali — e guardalo da ogni lato.', hint: 'Trascina per ruotare, scorri per ingrandire', shape: 'Forma', shapes: { rect: 'Rettangolo', arch: 'Arco', point: 'Punta' }, leather: 'Colore della pelle', thread: 'Colore del filo', ring: 'Anello', rings: { silver: 'Argento', brass: 'Ottone', black: 'Nero', gold: 'Oro' }, initials: 'Iniziali', initialsPh: 'es. EM', colors: { tan: 'Naturale', cognac: 'Cognac', brown: 'Marrone', black: 'Nero', burgundy: 'Bordeaux', olive: 'Oliva', cream: 'Crema', white: 'Bianco', red: 'Rosso' }, download: 'Scarica immagine', order: 'Ordina questo', measure: { toggle: 'Griglia e misure', width: 'Larghezza', height: 'Altezza', thickness: 'Spessore', hole: 'Foro', spacing: 'Passo del punto', inset: 'Cucitura dal bordo' }, exitFull: 'Esci da schermo intero', lockTop: 'Blocca vista dall’alto', hintPan: 'Trascina per spostare, scorri per ingrandire', pattern: { btn: 'Scarica cartamodello', loading: 'Preparazione…', title: 'Cartamodello del portachiavi', print: 'Stampa al 100% (dimensioni reali, senza "adatta alla pagina"). Controlla la misura con le linee di calibrazione.', how: 'Ritaglialo, appoggialo sulla pelle, traccia il contorno e fora direttamente attraverso la carta.', cut: 'Linea di taglio', holes: 'Fori: pricofora da 3,85 mm, tagli a 45°', corner: 'Foro d’angolo: foralo con la lesina, inizia da qui con la pricofora', joint: 'Giunzione del filo: 2 punti cuciti due volte', ring: 'Foro dell’anello', initials: 'Iniziali', stitches: 'Punti', leather: 'Pelle', thread: 'Filo', check: '10 mm', calibNote: 'Se il modello non viene 3 × 8 cm: rimetti i valori predefiniti nei campi su /editor, misura le due linee e indica le loro lunghezze (cm).' }, calib: { label: 'Calibrazione', x: 'Linea orizzontale, cm', y: 'Linea verticale, cm', hint: 'Alla prima stampa lascia i valori predefiniti. Stampa, misura le due linee e indica quanto misurano (cm): da quel momento tutto si stampa a grandezza reale.' } },
     hero: { eyebrow: 'Pelle fatta a mano', title: 'Oggetti che nascono lentamente', tag: 'borse · accessori per chiavi · portafogli', lead: 'Ogni pezzo SLOU è un oggetto fatto a mano in cuoio naturale a concia vegetale. Senza fretta, ma con cura.', cta: 'Scopri il negozio' },
     features: [ { t: 'Fatto a mano', d: 'Ogni dettaglio è cucito e modellato a mano.' }, { t: 'Cuoio a concia vegetale', d: 'Naturale, invecchia bene, acquista patina.' }, { t: 'Senza fodera', d: 'Costruzione minimalista e durevole.' }, { t: 'Fatto su ordinazione', d: 'Fino a 7–14 giorni lavorativi, in Lituania.' } ],
     shop: { eyebrow: 'Collezione', title: 'Negozio', sub: 'Pezzi cuciti a mano per tutti i giorni.', subLong: 'Pezzi cuciti a mano in cuoio a concia vegetale, fatti su ordinazione.', all: 'Tutti i prodotti' },
